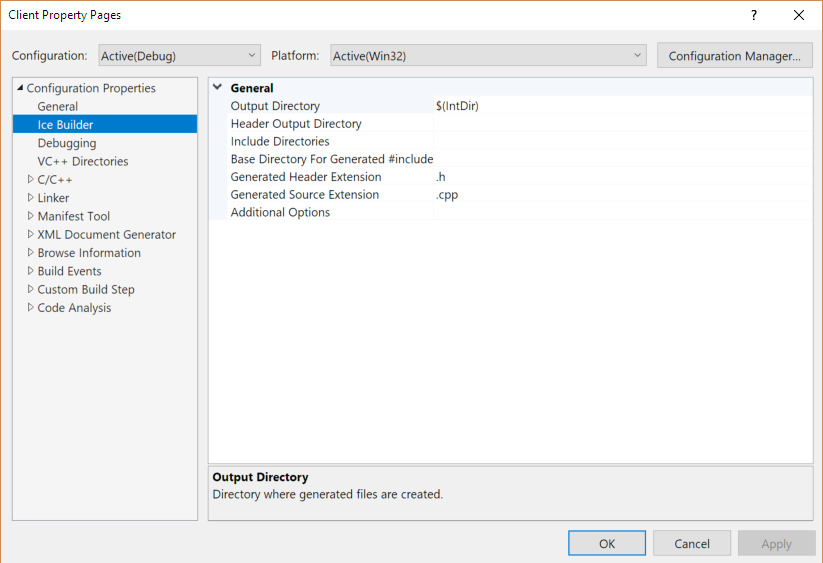
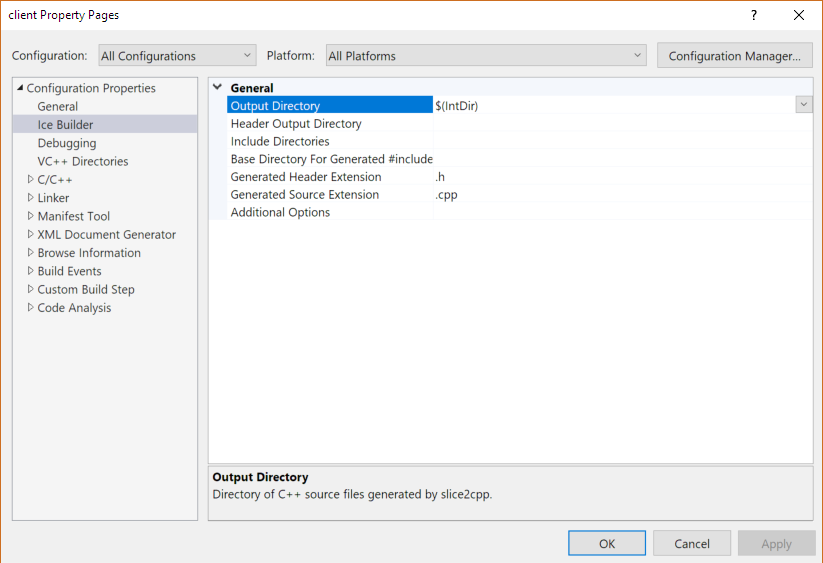
Added screenshots

diff --git a/README.md b/README.md
@@ -66,6 +66,8 @@ Follow these steps:
 
 ![Missing cpp additional include directories](/Screenshots/cpp-additional-include-directories.png)
 
+:memo: Make sure to select `All Configurations` and `All Platforms` as shown above.
+
 ### Customizing the Slice to C++ Compilation
 
 Ice Builder allows you to change the options given to `slice2cpp` when compiling a Slice file. You can specify the options that apply to all the Slice files in a project with the `Ice Builder` property page in the `Common Properties` of your project:
